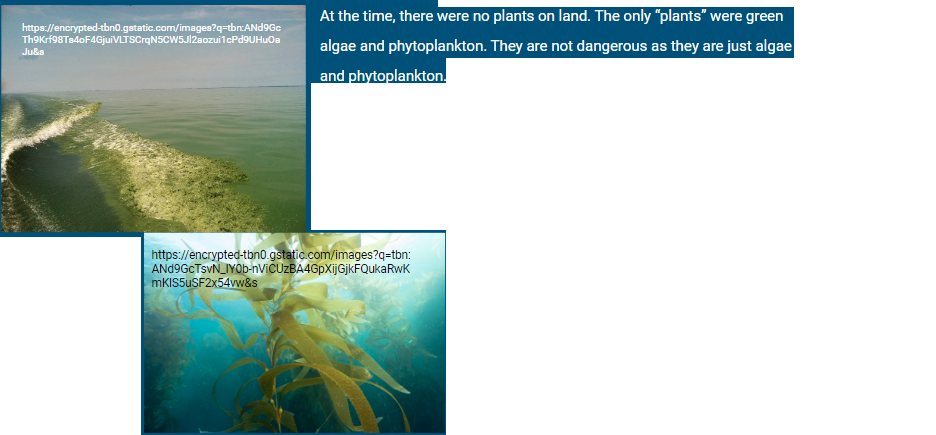
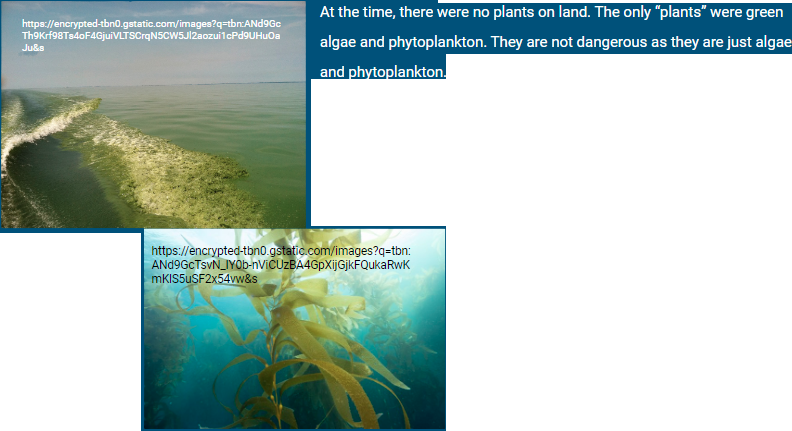
resize

diff --git a/index.html b/index.html
@@ -23,7 +23,7 @@
 				About The Cambrian Era:
 			</h2>
 			<p class="text">
-				If your family wanted to visit the Cambrian period, you would find a variety of sea animals and “plant” life. The Cambrian period started 538.8 <img src="1.png" class="right"> million years ago and ended 485.4 million years ago. It came after the Precambrian Era and before <img src="2.png" class="left"> the Ordovician period. You are and your family will be safe since there are no land animals and no dangerous sea animals.
+				If your family wanted to visit the Cambrian period, you would find a variety of sea animals and “plant” life. The Cambrian period started 538.8 <img src="1.png" class="right expand"> million years ago and ended 485.4 million years ago. It came after the Precambrian Era and before <img src="2.png" class="left expand"> the Ordovician period. You are and your family will be safe since there are no land animals and no dangerous sea animals.
 			</p>
 			<h2 class="subHead cenDiv">
 				<br><br>Where will you be going?
@@ -31,48 +31,48 @@
 			<p class="text">
 				You will be visiting the supercontinent Gondwana!  If you were to try to go to the North America, you would be underwater.
 			</p>
-			<img src="3.png" class="center"/>
+			<img src="3.png" class="center expand">
 			<h2 class="subHead cenDiv">
 				Climate
 			</h2>
 			<p class="text">
-				Since our temperature reader has recently gone out of order and the climate in the Cambrian period is not well known, you should take a light jacket just in case. Previous records tell us that the average temperature during the cambrian period was 22 °C (72 °F).<img src="4.png" class="left"><img src="5.png" class="right">			
+				Since our temperature reader has recently gone out of order and the climate in the Cambrian period is not well known, you should take a light jacket just in case. Previous records tell us that the average temperature during the cambrian period was 22 °C (72 °F).<img src="4.png" class="left expand"><img src="5.png" class="right">			
 			</p>
 			<h2 class="subHead cenDiv">
 				<br><br><br><br><br><br><br>Why The Cambrian Travel Agency???
 			</h2>
 			<p class="text">
-				The Cambrian Travel Time Agency is a perfect agency to go to if you want a relaxing cambrian experience. We have a variety of activities and a good restaurant near you! We also have a wonderful hotel which includes 5 star spa and a Snailbucks cafe.<img src="6.png" class="center">
+				The Cambrian Travel Time Agency is a perfect agency to go to if you want a relaxing cambrian experience. We have a variety of activities and a good restaurant near you! We also have a wonderful hotel which includes 5 star spa and a Snailbucks cafe.<img src="6.png" class="center expand">
 			</p>
 			<h2 class="subHead cenDiv">
 				Cambrian Madness Menu
 			</h2>
 			<p class="text" style="text-align: center"2>
-				We have a variety of delicious meals for everyone!<br><img src="7.png" class="left"><img src="13.png" class="right">
+				We have a variety of delicious meals for everyone!<br><img src="7.png" class="left expand"><img src="13.png" class="right expand">
 			</p>
 			<h2 class="subHead cenDiv">
 				<br><br><br><br><br><br><br><br><br><br><br><br><br><br><br><br><br><br>Timeline/Significant Events
 			</h2>
-			<img src="8.png" class="center">
+			<img src="8.png" class="center expand">
 			<h2 class="subHead cenDiv">
 				Itinerary
 			</h2>
-			<img src="12.png">
-			<img src="9.png">
+			<img src="12.png" class="expand">
+			<img src="9.png" class="expand">
 			<h2 class="subHead cenDiv">
 				Plants in the Cambrian period
 			</h2>
 			<p class="text">
-				<img src="10.png" class="left">
+				<img src="10.png" class="left expand">
 			</p>
 			
 			<h2 class="subHead cenDiv">
-				Animals of the Cambrian period
+				<br><br><br><br><br><br><br><br><br><br><br><br><br><br><br><br><br><br>Animals of the Cambrian period
 			</h2>
 			<p class="text">
 				There were many many sea animals such as trilobites, arthropods, mollusks, and surprisingly, sea sponges! The dominant animal was an arthropod. Its name is the Anomalocaris. It is safe as it does not eat prey as big as humans.
 			</p>
-			<img src="11.png">
+			<img src="11.png" class="expand">
 			<h1 id="sources">
 			Sources:
 			</h1>

diff --git a/myCSS.css b/myCSS.css
@@ -66,3 +66,8 @@ a{
 	margin-left: auto;
 	margin-right: auto;
 }
+
+.expand{
+	max-width:100%;
+	max-height:100%;
+}
